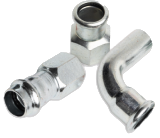
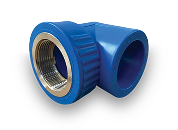
changed categorias

diff --git a/src/components/Categorias/Categorias.tsx b/src/components/Categorias/Categorias.tsx
@@ -11,29 +11,19 @@ import "swiper/css/navigation";
 import "swiper/css/scrollbar";
 
 import abracadeiras from "@/img/categorias/abracadeiras-home.png";
-import puc from "@/img/categorias/puc.png";
 import tubosConexoes from "@/img/categorias/tubos-conexoes.png";
-import linhaPneumatica from "@/img/categorias/linha-pneumatica.png";
-import linhaHidraulica from "@/img/categorias/linha-hidraulica.png";
-import linhaIndustrial from "@/img/categorias/linha-industrial.png";
-import linhaAlimenticia from "@/img/categorias/linha-alimenticia.png";
-import mangueiras from "@/img/categorias/mangueiras-home.png";
-import valvulas from "@/img/categorias/valvulas-home.png";
-import engate from "@/img/categorias/engate.png";
-import arComprimido from "@/img/categorias/ar-comprimido.png";
+import mangueiraAlimenticia from "@/img/categorias/mangueira-alimenticia.png";
+import engates from "@/img/categorias/engates-home.png";
+import conexoesGalvanizadas from "@/img/categorias/conexoes-galvanizadas.png";
+import automotiva from "@/img/categorias/estetica-automotiva.png";
 
 const categoriasData = [
   { id: 1, title: "Abraçadeiras", image: abracadeiras },
-  { id: 2, title: "PUC", image: puc },
-  { id: 3, title: "Tubos e Conexões", image: tubosConexoes },
-  { id: 4, title: "Linha Pneumática", image: linhaPneumatica },
-  { id: 5, title: "Linha Hidráulica", image: linhaHidraulica },
-  { id: 6, title: "Linha Industrial", image: linhaIndustrial },
-  { id: 7, title: "Linha Alimentícia", image: linhaAlimenticia },
-  { id: 8, title: "Mangueiras", image: mangueiras },
-  { id: 9, title: "Válvulas", image: valvulas },
-  { id: 10, title: "Engate", image: engate },
-  { id: 11, title: "Ar Comprimido", image: arComprimido },
+  { id: 2, title: "Tubos e Conexões PPR", image: tubosConexoes },
+  { id: 3, title: "Mangueiras Alimentícias", image: mangueiraAlimenticia },
+  { id: 4, title: "Conexões Galvanizadas e Aço Inox", image: conexoesGalvanizadas },
+  { id: 5, title: "Engates", image: engates },
+  { id: 6, title: "Estética Automotiva", image: automotiva },
 ];
 
 export default function Categorias() {
